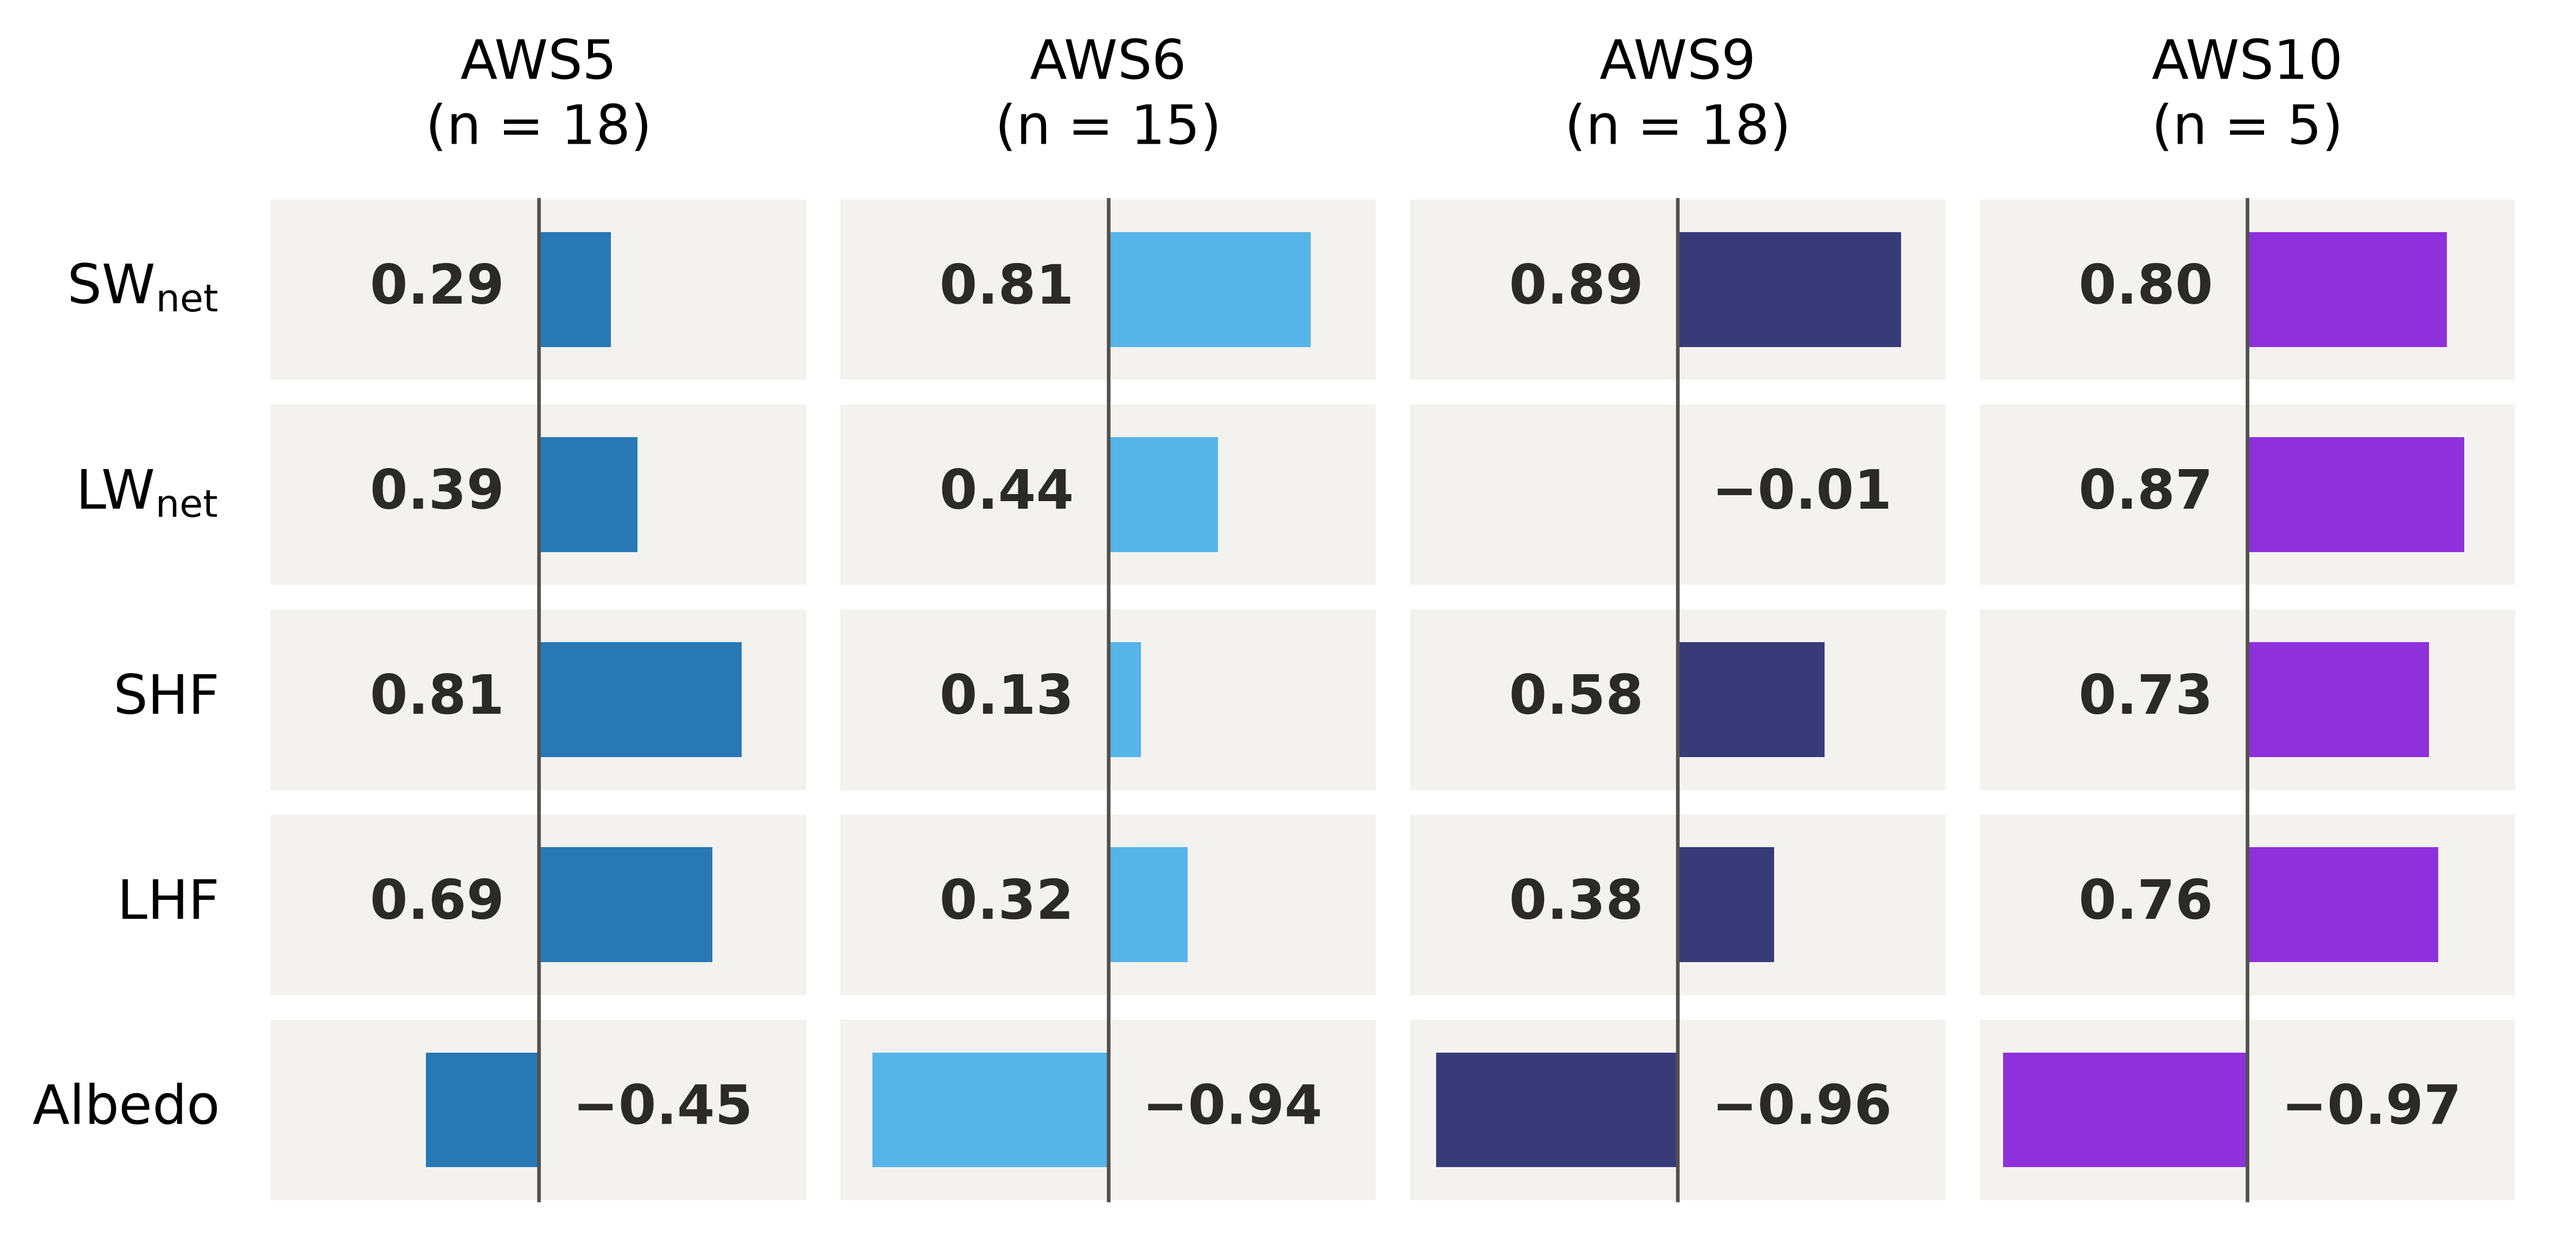
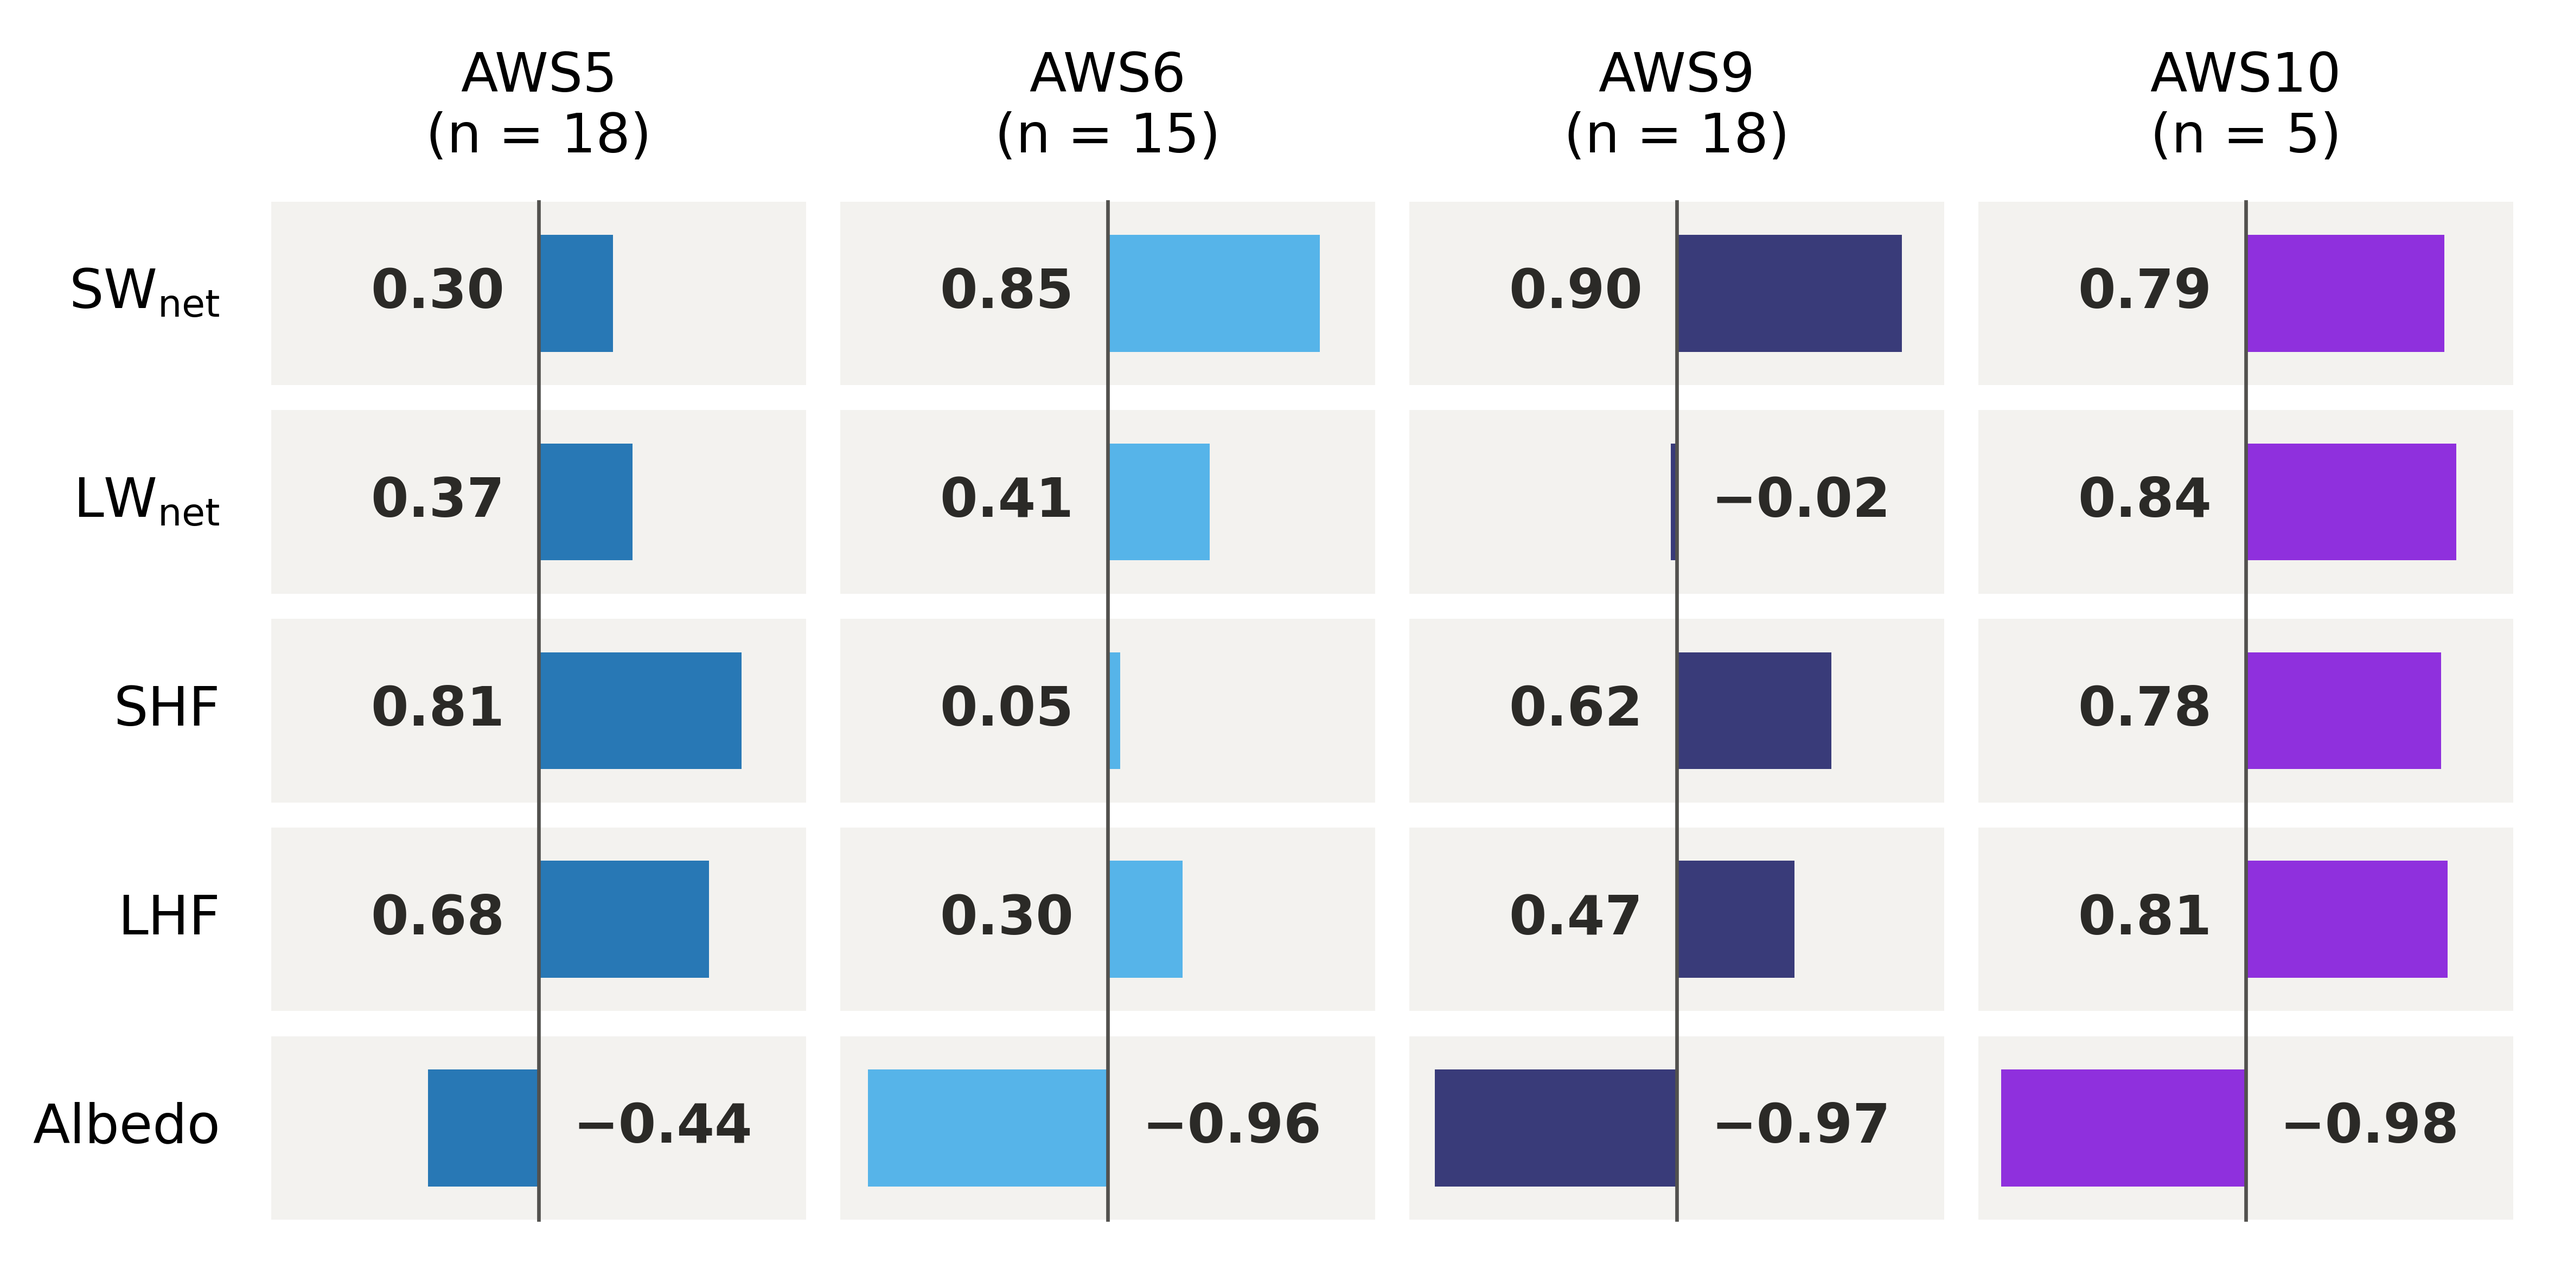
correlation table with no ground heat flux

diff --git a/code/uncertainty.py b/code/uncertainty.py
@@ -224,6 +224,16 @@ def correlations(years):
     return pd.DataFrame(rows)
 
 
+def jja_years_without_g():
+    """Zomerwaarden per station zoals jja_summary (≥80% JJA-dekking), maar zonder ground heat flux."""
+    orig = stm.N_G_ITER
+    try:
+        stm.N_G_ITER = 0     # geen koppeling met het ondergrondmodel -> G = 0
+        return pd.concat([ea.jja_summary(st)[0] for st in mc.AWS_STATIONS])
+    finally:
+        stm.N_G_ITER = orig
+
+
 def gradient_ci(years):
     clim = years.groupby("station").mean(numeric_only=True)
     rows = []
@@ -431,7 +441,12 @@ def main():
           .reindex(columns=mc.AWS_STATIONS).to_string())
 
     plot_correlations(years, cor, out / "correlations.png")
-    plot_correlation_table(cor, out / "correlations_paper.png")
+    # correlatietabel: zelfde zomers (≥80% JJA-dekking), maar smelt zonder ground heat flux
+    years_no_g = jja_years_without_g()
+    years_no_g.round(3).to_csv(out / "jja_per_station_year_no_g.csv")
+    cor_no_g = correlations(years_no_g)
+    cor_no_g.round(3).to_csv(out / "correlations_no_g.csv", index=False)
+    plot_correlation_table(cor_no_g, out / "correlations_paper.png")
 
     gr = gradient_ci(years)
     gr.round(3).to_csv(out / "gradient_ci.csv")
